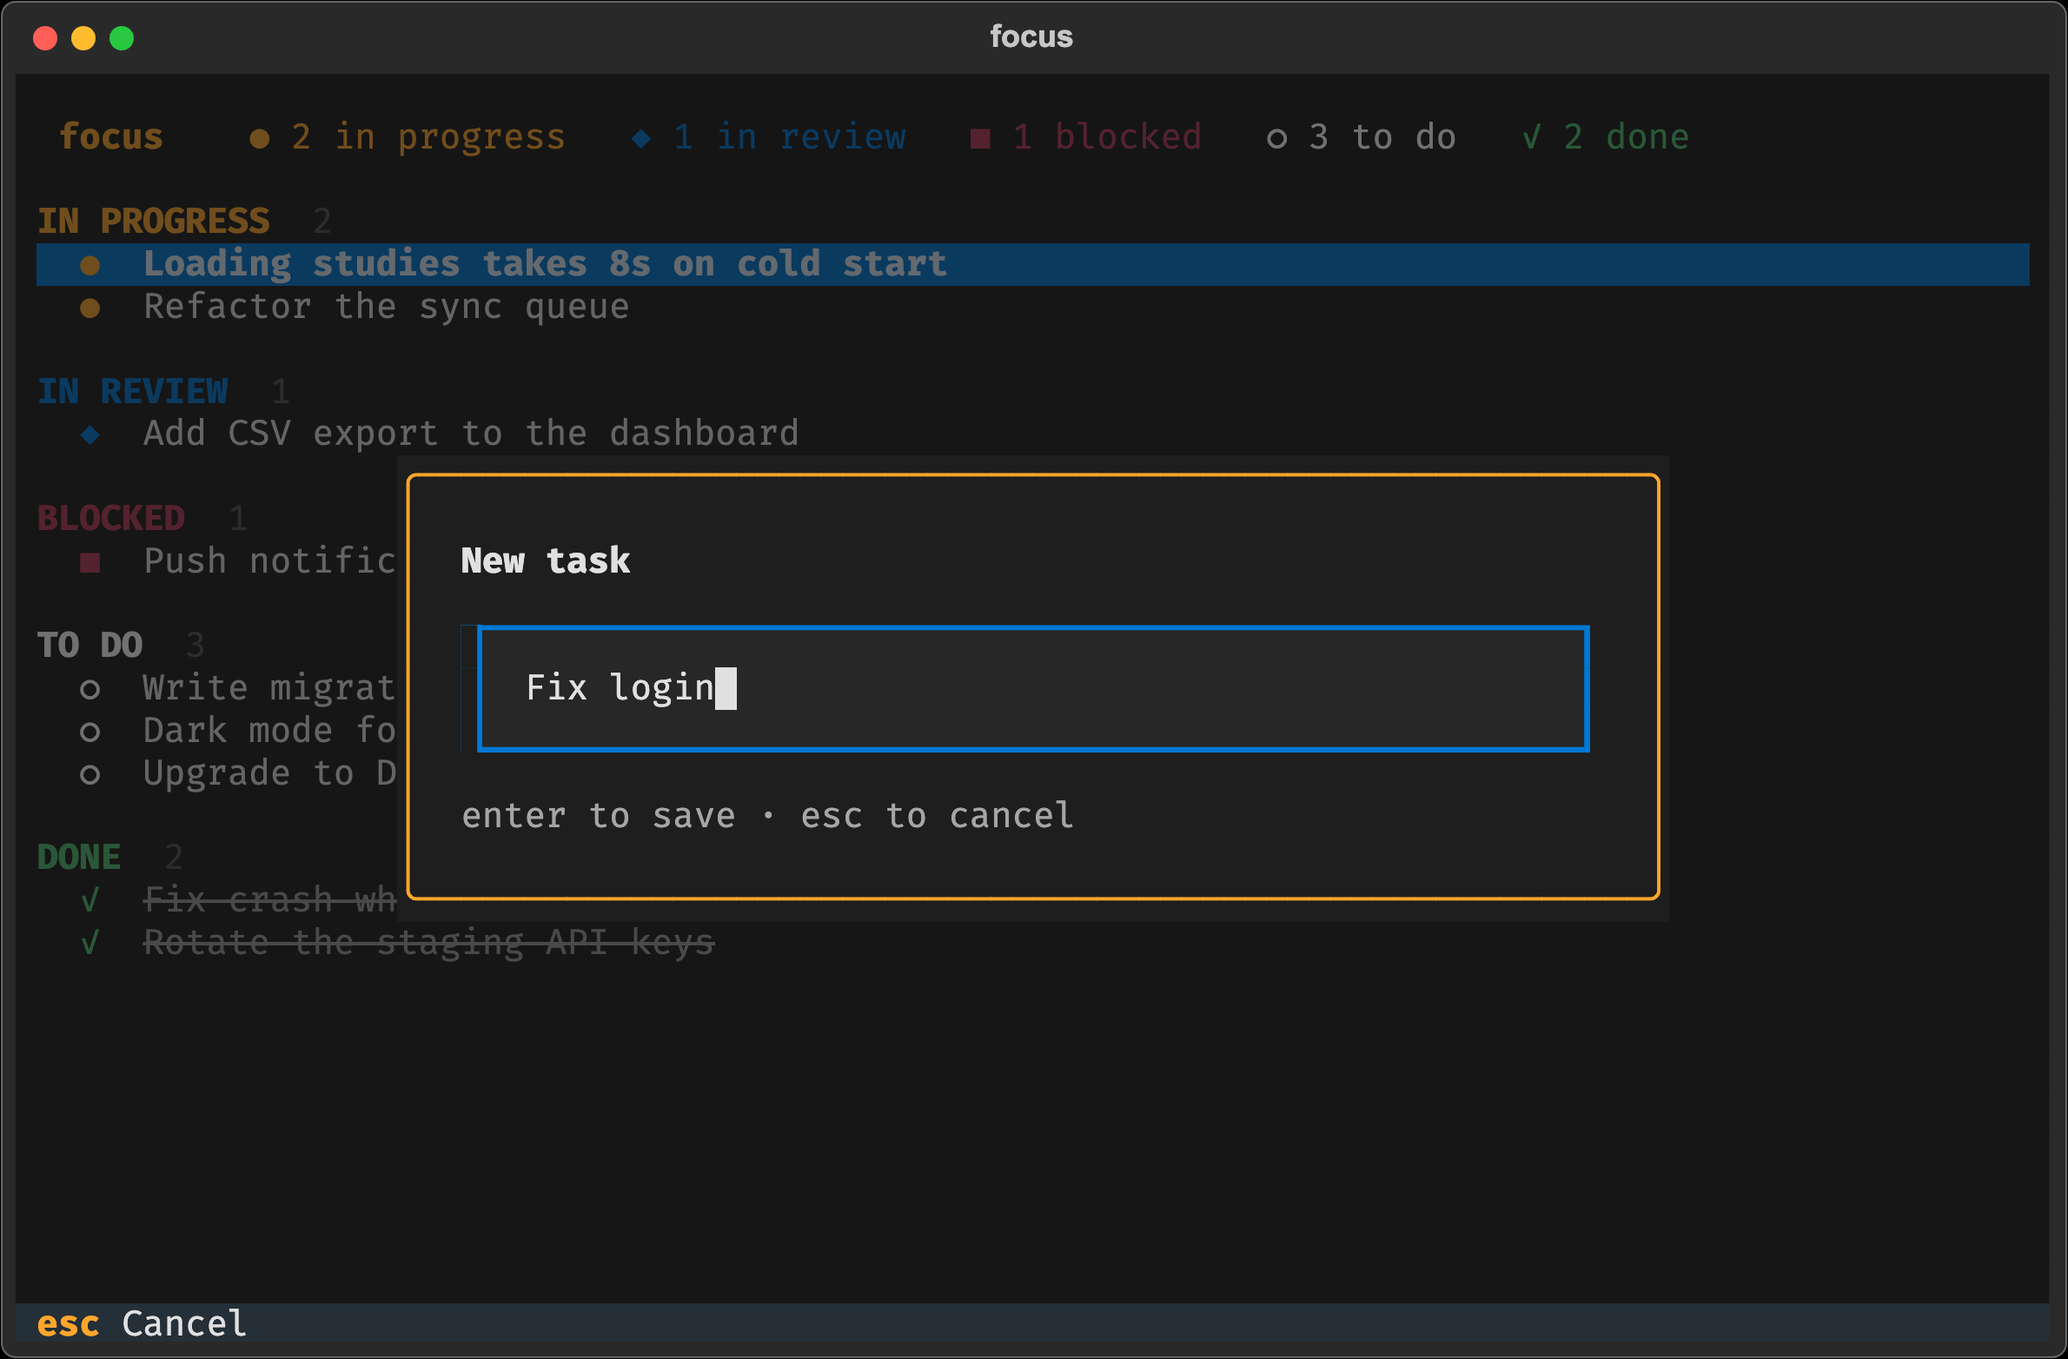
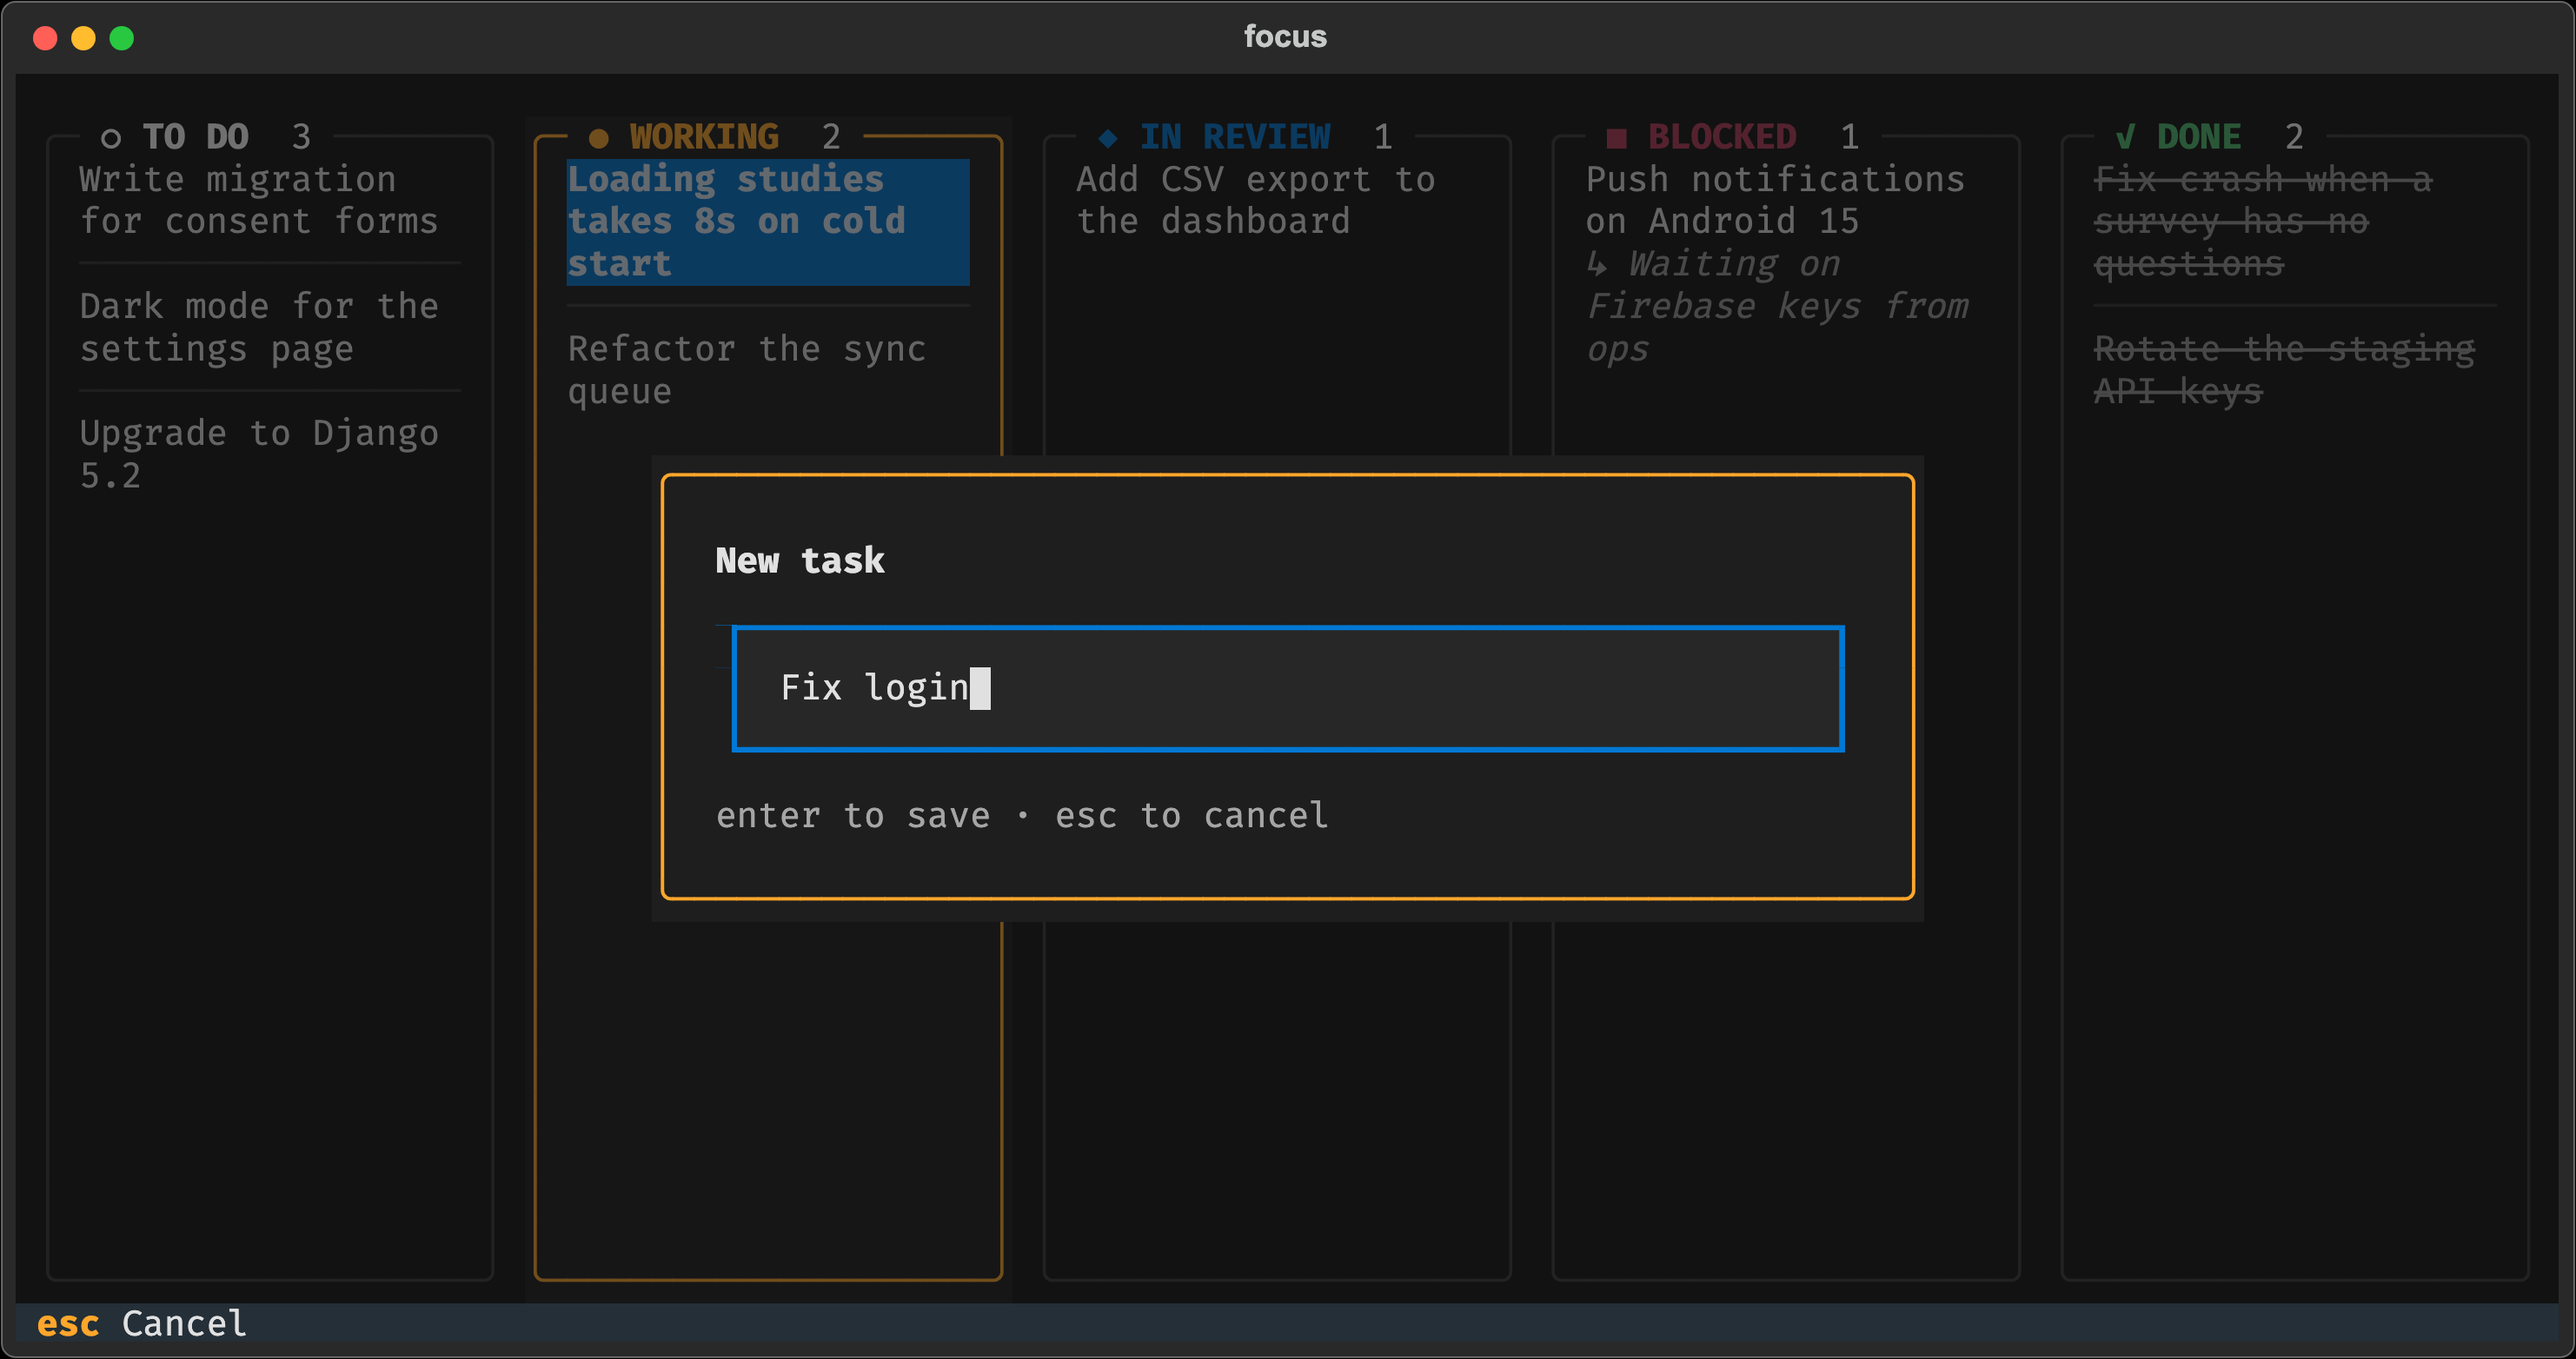
Re-take screenshots for the column board
Every screenshot now shows the columns, and the new blocked.png shows the
reason question. Rendered at 120 columns wide so all five fit.

diff --git a/README.md b/README.md
@@ -59,6 +59,8 @@ Blocking a task asks why. The answer shows under the task in the Blocked column,
 so you can tell at a glance what each one is waiting on. Press `b` again to edit
 it, or leave it empty. Moving the task out of Blocked clears it.
 
+![The blocked-reason question, pre-filled for a task that is already blocked](docs/blocked.png)
+
 ### Adding a task
 
 `a` on the dashboard, or `focus add` from the shell. Type a title, press
